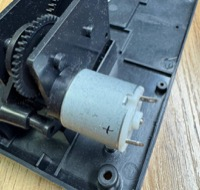
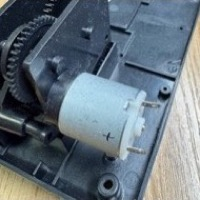
Add LX-LCBST and LiPo photos, rearrange images into two rows

diff --git a/README.md b/README.md
@@ -2,7 +2,8 @@
 
 Firmware for an automatic card shuffler ([Ali](https://aliexpress.ru/item/1005009151783502.html), [Oz](https://www.ozon.ru/product/shafl-mashinka-dlya-peremeshivaniya-kart-2946931123/), [Oz](https://www.ozon.ru/product/avtomaticheskiy-peremeshivatel-kart-dlya-pokera-elektronnyy-peremeshivatel-2022-chernyy-3070517864/), [Oz](https://www.ozon.ru/product/ustroystvo-dlya-peremeshivaniya-kart-1807983264/)) powered by RP2040-Zero with TFT display (ST7735), rotary encoder (KY-040), and TB6612FNG motor driver.
 
-<img width="150" height="150" alt="cf" src="docs/card-shuffler.png" /> <img width="150" height="150" alt="st7735" src="docs/st7735.png" /> <img width="150" height="150" alt="rp2040" src="docs/rp2040-zero.png" /> <img width="150" height="150" alt="ky040" src="docs/ky040.png" /> <img width="150" height="150" alt="tb6612fng" src="docs/tb6612fng.jpg" />
+<img width="200" height="200" alt="cf" src="docs/card-shuffler.png" /> <img width="200" height="200" alt="st7735" src="docs/st7735.png" /> <img width="200" height="200" alt="rp2040" src="docs/rp2040-zero.png" />
+<img width="200" height="200" alt="ky040" src="docs/ky040.png" /> <img width="200" height="200" alt="tb6612fng" src="docs/tb6612fng.jpg" /> <img width="200" height="200" alt="fa130" src="docs/motor-fa130.jpg" /> <img width="200" height="200" alt="lx-lcbst" src="docs/lx-lcbst.jpg" /> <img width="200" height="200" alt="lipo" src="docs/lipo.jpg" />
 
 ## Features
 
@@ -91,9 +92,6 @@ GP3 ───────────────→ PWMB
 GND ───────────────→ BIN2                   BOUT2 ──→ Motor 2
 3V3 ───────────────→ STBY
 ```
-
-<img width="200" height="200" alt="fa130" src="docs/motor-fa130.jpg" />
-
 
 ## Building
 
